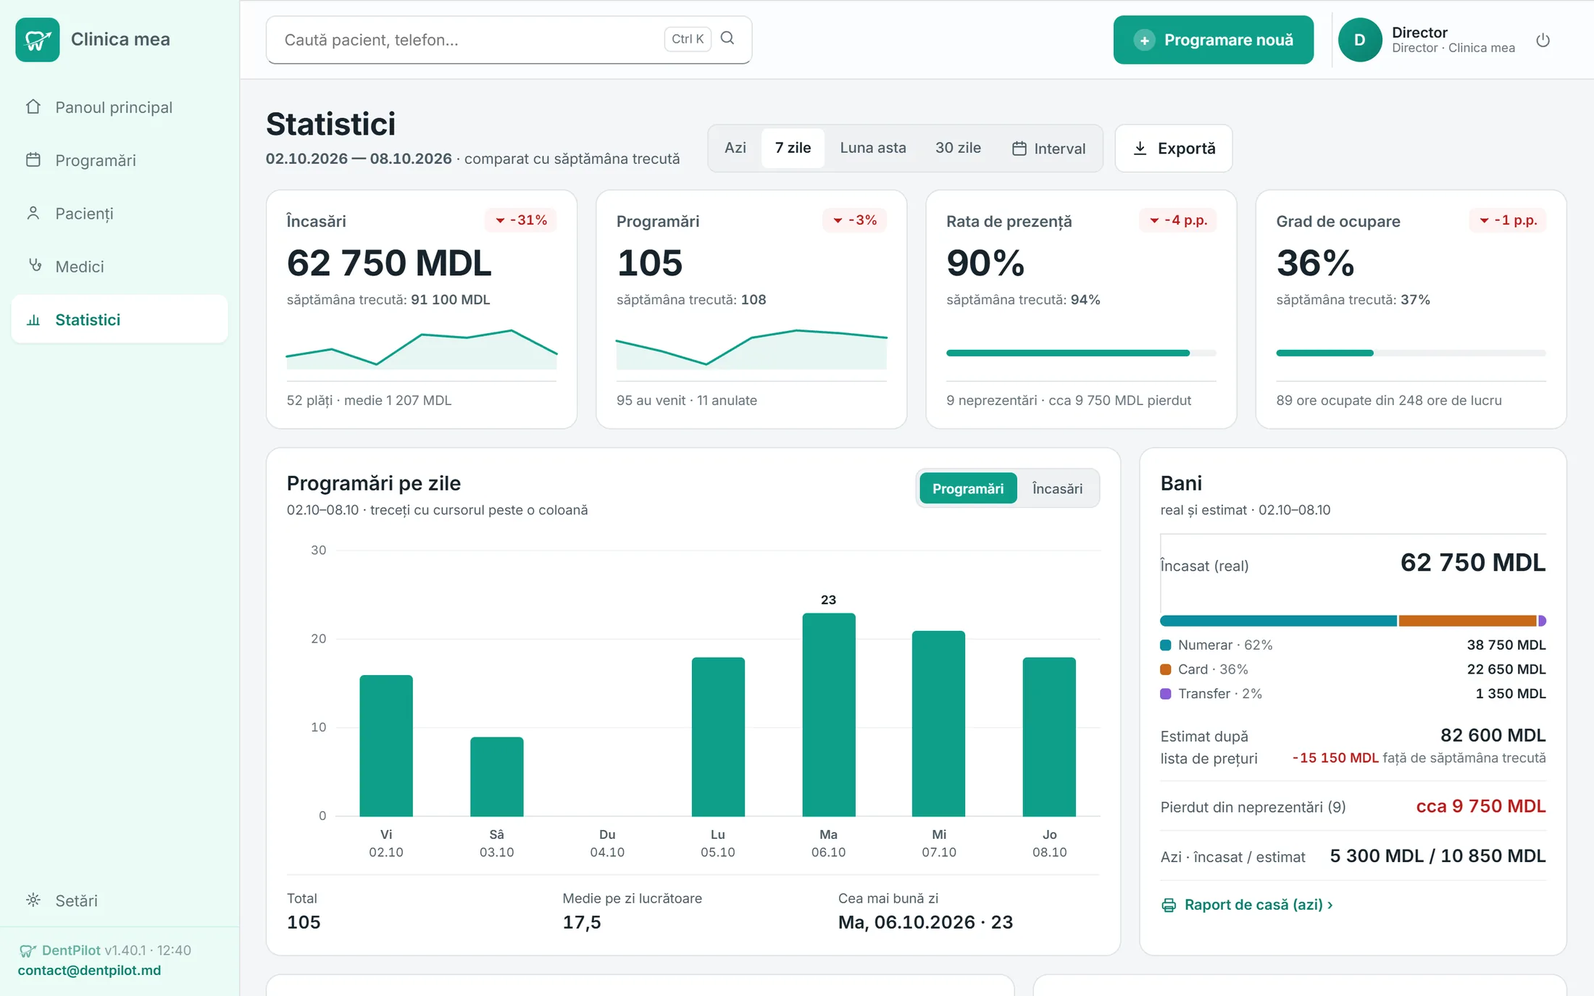
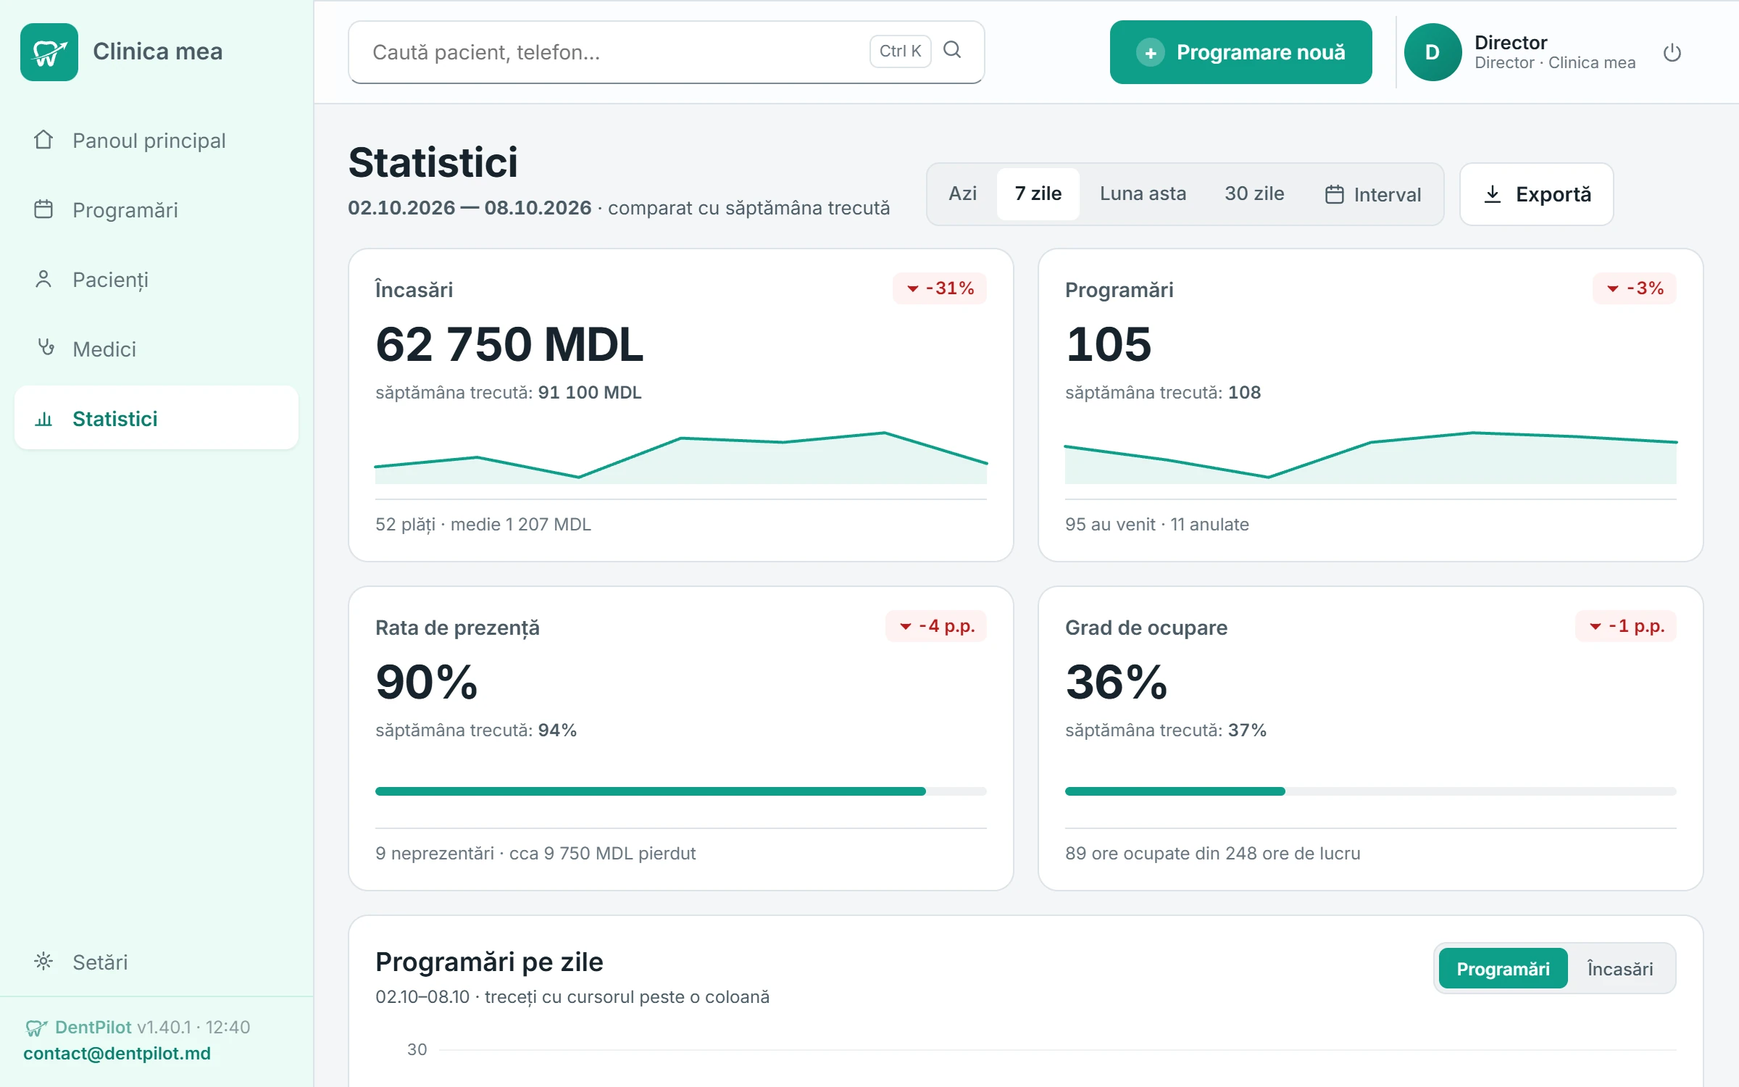
Frames reshot closer to natural size: hero from a 1200x750 window, feature blocks and the demo card from 1100x690, both in 2x WebP q90 without downscaling (Oleg: the screenshots looked blurry)
A 1440-wide screen inside a 1100 px hero frame was shown at 76% and inside a 670 px feature frame at 47%; the UI text fell to 7-10 px and lossy q82 softened it further. The 3D odontogram keeps the wide frame in its block: at 1100 the arch is cut at the bottom.

diff --git a/ru.html b/ru.html
@@ -240,7 +240,7 @@ footer nav a:hover{color:var(--accent)}
     <div class="tabs" role="tablist" aria-label="Экраны DentPilot"><button type="button" role="tab" id="tab-calendar" aria-selected="true" aria-controls="shot-panel" tabindex="0" data-src="shots/app-calendar.webp" data-alt="Календарь дня со всеми врачами в DentPilot" data-cap="Все врачи на одном экране: свободные окна, статусы, новая запись в один клик.">Календарь дня</button><button type="button" role="tab" id="tab-odontograma" aria-selected="false" aria-controls="shot-panel" tabindex="-1" data-src="shots/app-odontograma.webp" data-alt="3D-одонтограмма в DentPilot: имплант на 21, коронки, видны корни" data-cap="Состояния зубов и поверхностей — в 3D и в формуле FDI, синхронно.">3D-одонтограмма</button><button type="button" role="tab" id="tab-fisa" aria-selected="false" aria-controls="shot-panel" tabindex="-1" data-src="shots/app-fisa.webp" data-alt="Карточка пациента в DentPilot: данные, медицинские предупреждения, история" data-cap="История, медицинские предупреждения, документы и план лечения в одном месте.">Карточка пациента</button><button type="button" role="tab" id="tab-statistici" aria-selected="false" aria-controls="shot-panel" tabindex="-1" data-src="shots/app-statistici.webp" data-alt="Статистика клиники в DentPilot: выручка, записи, явка, загрузка" data-cap="Выручка, записи, явка и загрузка — в сравнении с прошлой неделей.">Статистика</button></div>
     <figure class="frame" role="tabpanel" id="shot-panel" aria-labelledby="tab-calendar">
       <div class="frame-bar" aria-hidden="true"><i></i><i></i><i></i><span id="shot-bar">DentPilot · Календарь дня</span></div>
-      <img id="shot" src="shots/app-calendar.webp" alt="Календарь дня со всеми врачами в DentPilot" width="2200" height="1375" fetchpriority="high">
+      <img id="shot" src="shots/app-calendar.webp" alt="Календарь дня со всеми врачами в DentPilot" width="2400" height="1500" fetchpriority="high">
     </figure>
     <p class="cap" id="shot-cap">Все врачи на одном экране: свободные окна, статусы, новая запись в один клик.</p>
   </div>
@@ -250,11 +250,11 @@ footer nav a:hover{color:var(--accent)}
   <div class="wrap">
     <div class="feat">
       <div class="txt"><div class="eyebrow">Карточка пациента</div><h2 class="h2">Всё о пациенте — в одной карточке</h2><p class="lead">Зубная формула FDI в один клик, план лечения, платежи и история визитов.</p><ul class="ul"><li><svg width="18" height="18" viewBox="0 0 24 24" fill="none" stroke="currentColor" stroke-width="2.4" stroke-linecap="round" stroke-linejoin="round" aria-hidden="true"><path d="M5 12.5l4.5 4.5L19 7.5"/></svg>План лечения с ценами, статусами, платежами и балансом</li><li><svg width="18" height="18" viewBox="0 0 24 24" fill="none" stroke="currentColor" stroke-width="2.4" stroke-linecap="round" stroke-linejoin="round" aria-hidden="true"><path d="M5 12.5l4.5 4.5L19 7.5"/></svg>Информированное согласие (ст. 13, Закон 263/2005) печатается прямо из плана</li><li><svg width="18" height="18" viewBox="0 0 24 24" fill="none" stroke="currentColor" stroke-width="2.4" stroke-linecap="round" stroke-linejoin="round" aria-hidden="true"><path d="M5 12.5l4.5 4.5L19 7.5"/></svg>Пародонтограмма: 6 точек на зуб, BOP% и карманы считаются автоматически, осмотр за осмотром</li></ul></div>
-      <div class="img"><figure class="frame" style="margin:0"><img src="shots/app-fisa.webp" alt="Карточка пациента в DentPilot: данные, медицинские предупреждения, история действий" width="2200" height="1375" loading="lazy"></figure></div>
+      <div class="img"><figure class="frame" style="margin:0"><img src="shots/app-fisa-s.webp" alt="Карточка пациента в DentPilot: данные, медицинские предупреждения, история действий" width="2200" height="1380" loading="lazy"></figure></div>
     </div>
     <div class="feat rev">
       <div class="txt"><div class="eyebrow">3D-одонтограмма</div><h2 class="h2">Зубы такими, какими их видит врач</h2><p class="lead">Та же одонтограмма, в объёме — зуб выбирается кликом или пальцем на планшете.</p><ul class="ul"><li><svg width="18" height="18" viewBox="0 0 24 24" fill="none" stroke="currentColor" stroke-width="2.4" stroke-linecap="round" stroke-linejoin="round" aria-hidden="true"><path d="M5 12.5l4.5 4.5L19 7.5"/></svg>Вид спереди, сбоку или окклюзионный, вращение и корни по запросу</li><li><svg width="18" height="18" viewBox="0 0 24 24" fill="none" stroke="currentColor" stroke-width="2.4" stroke-linecap="round" stroke-linejoin="round" aria-hidden="true"><path d="M5 12.5l4.5 4.5L19 7.5"/></svg>Импланты и коронки видны как есть, состояния — по поверхностям</li><li><svg width="18" height="18" viewBox="0 0 24 24" fill="none" stroke="currentColor" stroke-width="2.4" stroke-linecap="round" stroke-linejoin="round" aria-hidden="true"><path d="M5 12.5l4.5 4.5L19 7.5"/></svg>Отмеченное в 3D появляется в формуле FDI, в плане и в форме 043/e</li></ul></div>
-      <div class="img"><figure class="frame" style="margin:0"><img src="shots/app-odontograma.webp" alt="3D-одонтограмма в DentPilot, выбран зуб 21: имплант, коронки на 11 и 12" width="2200" height="1375" loading="lazy"></figure></div>
+      <div class="img"><figure class="frame" style="margin:0"><img src="shots/app-odontograma.webp" alt="3D-одонтограмма в DentPilot, выбран зуб 21: имплант, коронки на 11 и 12" width="2400" height="1500" loading="lazy"></figure></div>
     </div>
     <div class="feat">
       <div class="txt"><div class="eyebrow">Медицинские документы</div><h2 class="h2">Форма 043/e заполняется сама</h2><p class="lead">Из уже введённых данных — без ручного переписывания (приказ МЗ 828/2011).</p><ul class="ul"><li><svg width="18" height="18" viewBox="0 0 24 24" fill="none" stroke="currentColor" stroke-width="2.4" stroke-linecap="round" stroke-linejoin="round" aria-hidden="true"><path d="M5 12.5l4.5 4.5L19 7.5"/></svg>Диагноз, зубная формула и журнал визитов</li><li><svg width="18" height="18" viewBox="0 0 24 24" fill="none" stroke="currentColor" stroke-width="2.4" stroke-linecap="round" stroke-linejoin="round" aria-hidden="true"><path d="M5 12.5l4.5 4.5L19 7.5"/></svg>Информированное согласие на план лечения</li><li><svg width="18" height="18" viewBox="0 0 24 24" fill="none" stroke="currentColor" stroke-width="2.4" stroke-linecap="round" stroke-linejoin="round" aria-hidden="true"><path d="M5 12.5l4.5 4.5L19 7.5"/></svg>Информирование пациента об обработке данных — готово к подписи</li></ul></div>
@@ -262,7 +262,7 @@ footer nav a:hover{color:var(--accent)}
     </div>
     <div class="feat rev">
       <div class="txt"><div class="eyebrow">Для директора</div><h2 class="h2">Цифры клиники на сегодня</h2><p class="lead">Четыре показателя в сравнении с прошлым периодом: выручка, записи, явка и загрузка.</p><ul class="ul"><li><svg width="18" height="18" viewBox="0 0 24 24" fill="none" stroke="currentColor" stroke-width="2.4" stroke-linecap="round" stroke-linejoin="round" aria-hidden="true"><path d="M5 12.5l4.5 4.5L19 7.5"/></svg>Реальные деньги по способам оплаты и потери от неявок</li><li><svg width="18" height="18" viewBox="0 0 24 24" fill="none" stroke="currentColor" stroke-width="2.4" stroke-linecap="round" stroke-linejoin="round" aria-hidden="true"><path d="M5 12.5l4.5 4.5L19 7.5"/></svg>Результаты каждого врача и самые востребованные услуги</li><li><svg width="18" height="18" viewBox="0 0 24 24" fill="none" stroke="currentColor" stroke-width="2.4" stroke-linecap="round" stroke-linejoin="round" aria-hidden="true"><path d="M5 12.5l4.5 4.5L19 7.5"/></svg>Ежедневный отчёт кассы и экспорт в Excel в один клик</li></ul></div>
-      <div class="img"><figure class="frame" style="margin:0"><img src="shots/app-statistici.webp" alt="Статистика клиники в DentPilot: выручка, записи, явка, загрузка" width="2200" height="1375" loading="lazy"></figure></div>
+      <div class="img"><figure class="frame" style="margin:0"><img src="shots/app-statistici-s.webp" alt="Статистика клиники в DentPilot: выручка, записи, явка, загрузка" width="2200" height="1380" loading="lazy"></figure></div>
     </div></div>
 </section>
 
@@ -317,7 +317,7 @@ footer nav a:hover{color:var(--accent)}
         <div class="row"><a class="btn inv" href="https://demo.dentpilot.md/" target="_blank" rel="noopener">Открыть демо онлайн</a><a class="btn ghost-inv" href="#contact">Заказать презентацию</a></div>
         <p class="note">Без установки · без регистрации · вымышленные данные · лучше всего на компьютере</p>
       </div>
-      <div class="img"><figure class="frame"><div class="frame-bar" aria-hidden="true"><i></i><i></i><i></i><span>DentPilot · Календарь дня</span></div><img src="shots/app-calendar.webp" alt="Календарь дня в DentPilot" width="2200" height="1375" loading="lazy"></figure></div>
+      <div class="img"><figure class="frame"><div class="frame-bar" aria-hidden="true"><i></i><i></i><i></i><span>DentPilot · Календарь дня</span></div><img src="shots/app-calendar-s.webp" alt="Календарь дня в DentPilot" width="2200" height="1380" loading="lazy"></figure></div>
     </div>
   </div>
 </section>

diff --git a/index.html b/index.html
@@ -240,7 +240,7 @@ footer nav a:hover{color:var(--accent)}
     <div class="tabs" role="tablist" aria-label="Ecrane DentPilot"><button type="button" role="tab" id="tab-calendar" aria-selected="true" aria-controls="shot-panel" tabindex="0" data-src="shots/app-calendar.webp" data-alt="Calendarul zilei cu toți medicii în DentPilot" data-cap="Toți medicii pe un ecran: intervale libere, statusuri, programare nouă dintr-un click.">Calendarul zilei</button><button type="button" role="tab" id="tab-odontograma" aria-selected="false" aria-controls="shot-panel" tabindex="-1" data-src="shots/app-odontograma.webp" data-alt="Odontograma 3D în DentPilot: implant pe 21, coroane, rădăcini vizibile" data-cap="Stările pe dinți și suprafețe — în 3D și în formula FDI, sincronizate.">Odontogramă 3D</button><button type="button" role="tab" id="tab-fisa" aria-selected="false" aria-controls="shot-panel" tabindex="-1" data-src="shots/app-fisa.webp" data-alt="Fișa pacientului în DentPilot: date, atenționări medicale, istoric" data-cap="Istoric, atenționări medicale, documente și plan de tratament într-un loc.">Fișa pacientului</button><button type="button" role="tab" id="tab-statistici" aria-selected="false" aria-controls="shot-panel" tabindex="-1" data-src="shots/app-statistici.webp" data-alt="Statisticile clinicii în DentPilot: încasări, programări, prezență, ocupare" data-cap="Încasări, programări, prezență și ocupare — comparate cu săptămâna trecută.">Statistici</button></div>
     <figure class="frame" role="tabpanel" id="shot-panel" aria-labelledby="tab-calendar">
       <div class="frame-bar" aria-hidden="true"><i></i><i></i><i></i><span id="shot-bar">DentPilot · Calendarul zilei</span></div>
-      <img id="shot" src="shots/app-calendar.webp" alt="Calendarul zilei cu toți medicii în DentPilot" width="2200" height="1375" fetchpriority="high">
+      <img id="shot" src="shots/app-calendar.webp" alt="Calendarul zilei cu toți medicii în DentPilot" width="2400" height="1500" fetchpriority="high">
     </figure>
     <p class="cap" id="shot-cap">Toți medicii pe un ecran: intervale libere, statusuri, programare nouă dintr-un click.</p>
   </div>
@@ -250,11 +250,11 @@ footer nav a:hover{color:var(--accent)}
   <div class="wrap">
     <div class="feat">
       <div class="txt"><div class="eyebrow">Fișa pacientului</div><h2 class="h2">Totul despre pacient, într-o singură fișă</h2><p class="lead">Formula dentară FDI cu un click, plan de tratament, plăți și istoricul vizitelor.</p><ul class="ul"><li><svg width="18" height="18" viewBox="0 0 24 24" fill="none" stroke="currentColor" stroke-width="2.4" stroke-linecap="round" stroke-linejoin="round" aria-hidden="true"><path d="M5 12.5l4.5 4.5L19 7.5"/></svg>Plan de tratament cu prețuri, statusuri, plăți și sold</li><li><svg width="18" height="18" viewBox="0 0 24 24" fill="none" stroke="currentColor" stroke-width="2.4" stroke-linecap="round" stroke-linejoin="round" aria-hidden="true"><path d="M5 12.5l4.5 4.5L19 7.5"/></svg>Acordul informat (art. 13, Legea 263/2005) se tipărește direct din plan</li><li><svg width="18" height="18" viewBox="0 0 24 24" fill="none" stroke="currentColor" stroke-width="2.4" stroke-linecap="round" stroke-linejoin="round" aria-hidden="true"><path d="M5 12.5l4.5 4.5L19 7.5"/></svg>Parodontogramă: 6 puncte pe dinte, BOP% și pungile numărate automat, examen după examen</li></ul></div>
-      <div class="img"><figure class="frame" style="margin:0"><img src="shots/app-fisa.webp" alt="Fișa pacientului în DentPilot: date, atenționări medicale, istoric activitate" width="2200" height="1375" loading="lazy"></figure></div>
+      <div class="img"><figure class="frame" style="margin:0"><img src="shots/app-fisa-s.webp" alt="Fișa pacientului în DentPilot: date, atenționări medicale, istoric activitate" width="2200" height="1380" loading="lazy"></figure></div>
     </div>
     <div class="feat rev">
       <div class="txt"><div class="eyebrow">Odontogramă 3D</div><h2 class="h2">Dinții așa cum îi vede medicul</h2><p class="lead">Aceeași odontogramă, în volum — dintele se alege cu un click sau cu degetul pe tabletă.</p><ul class="ul"><li><svg width="18" height="18" viewBox="0 0 24 24" fill="none" stroke="currentColor" stroke-width="2.4" stroke-linecap="round" stroke-linejoin="round" aria-hidden="true"><path d="M5 12.5l4.5 4.5L19 7.5"/></svg>Vedere frontală, laterală sau ocluzală, rotire și rădăcini la cerere</li><li><svg width="18" height="18" viewBox="0 0 24 24" fill="none" stroke="currentColor" stroke-width="2.4" stroke-linecap="round" stroke-linejoin="round" aria-hidden="true"><path d="M5 12.5l4.5 4.5L19 7.5"/></svg>Implanturile și coroanele se văd ca atare, stările — pe suprafețe</li><li><svg width="18" height="18" viewBox="0 0 24 24" fill="none" stroke="currentColor" stroke-width="2.4" stroke-linecap="round" stroke-linejoin="round" aria-hidden="true"><path d="M5 12.5l4.5 4.5L19 7.5"/></svg>Ce notați în 3D apare în formula FDI, în plan și în fișa 043/e</li></ul></div>
-      <div class="img"><figure class="frame" style="margin:0"><img src="shots/app-odontograma.webp" alt="Odontograma 3D în DentPilot, dintele 21 selectat: implant, coroane pe 11 și 12" width="2200" height="1375" loading="lazy"></figure></div>
+      <div class="img"><figure class="frame" style="margin:0"><img src="shots/app-odontograma.webp" alt="Odontograma 3D în DentPilot, dintele 21 selectat: implant, coroane pe 11 și 12" width="2400" height="1500" loading="lazy"></figure></div>
     </div>
     <div class="feat">
       <div class="txt"><div class="eyebrow">Documente medicale</div><h2 class="h2">Fișa 043/e se completează singură</h2><p class="lead">Din datele deja introduse — fără copiat manual (Ordinul MS 828/2011).</p><ul class="ul"><li><svg width="18" height="18" viewBox="0 0 24 24" fill="none" stroke="currentColor" stroke-width="2.4" stroke-linecap="round" stroke-linejoin="round" aria-hidden="true"><path d="M5 12.5l4.5 4.5L19 7.5"/></svg>Diagnostic, formula dentară și jurnalul vizitelor</li><li><svg width="18" height="18" viewBox="0 0 24 24" fill="none" stroke="currentColor" stroke-width="2.4" stroke-linecap="round" stroke-linejoin="round" aria-hidden="true"><path d="M5 12.5l4.5 4.5L19 7.5"/></svg>Acordul informat pentru planul de tratament</li><li><svg width="18" height="18" viewBox="0 0 24 24" fill="none" stroke="currentColor" stroke-width="2.4" stroke-linecap="round" stroke-linejoin="round" aria-hidden="true"><path d="M5 12.5l4.5 4.5L19 7.5"/></svg>Informarea pacientului privind prelucrarea datelor — gata de semnat</li></ul></div>
@@ -262,7 +262,7 @@ footer nav a:hover{color:var(--accent)}
     </div>
     <div class="feat rev">
       <div class="txt"><div class="eyebrow">Pentru director</div><h2 class="h2">Cifrele clinicii, la zi</h2><p class="lead">Patru indicatori comparați cu perioada precedentă: încasări, programări, prezență și grad de ocupare.</p><ul class="ul"><li><svg width="18" height="18" viewBox="0 0 24 24" fill="none" stroke="currentColor" stroke-width="2.4" stroke-linecap="round" stroke-linejoin="round" aria-hidden="true"><path d="M5 12.5l4.5 4.5L19 7.5"/></svg>Banii reali pe metode de plată și pierderile din neprezentări</li><li><svg width="18" height="18" viewBox="0 0 24 24" fill="none" stroke="currentColor" stroke-width="2.4" stroke-linecap="round" stroke-linejoin="round" aria-hidden="true"><path d="M5 12.5l4.5 4.5L19 7.5"/></svg>Performanța fiecărui medic și serviciile cele mai cerute</li><li><svg width="18" height="18" viewBox="0 0 24 24" fill="none" stroke="currentColor" stroke-width="2.4" stroke-linecap="round" stroke-linejoin="round" aria-hidden="true"><path d="M5 12.5l4.5 4.5L19 7.5"/></svg>Raport de casă zilnic și export în Excel dintr-un click</li></ul></div>
-      <div class="img"><figure class="frame" style="margin:0"><img src="shots/app-statistici.webp" alt="Statisticile clinicii în DentPilot: încasări, programări, prezență, ocupare" width="2200" height="1375" loading="lazy"></figure></div>
+      <div class="img"><figure class="frame" style="margin:0"><img src="shots/app-statistici-s.webp" alt="Statisticile clinicii în DentPilot: încasări, programări, prezență, ocupare" width="2200" height="1380" loading="lazy"></figure></div>
     </div></div>
 </section>
 
@@ -317,7 +317,7 @@ footer nav a:hover{color:var(--accent)}
         <div class="row"><a class="btn inv" href="https://demo.dentpilot.md/" target="_blank" rel="noopener">Deschide demo-ul online</a><a class="btn ghost-inv" href="#contact">Solicită o prezentare</a></div>
         <p class="note">Fără instalare · fără înregistrare · date fictive · cel mai bine pe computer</p>
       </div>
-      <div class="img"><figure class="frame"><div class="frame-bar" aria-hidden="true"><i></i><i></i><i></i><span>DentPilot · Calendarul zilei</span></div><img src="shots/app-calendar.webp" alt="Calendarul zilei în DentPilot" width="2200" height="1375" loading="lazy"></figure></div>
+      <div class="img"><figure class="frame"><div class="frame-bar" aria-hidden="true"><i></i><i></i><i></i><span>DentPilot · Calendarul zilei</span></div><img src="shots/app-calendar-s.webp" alt="Calendarul zilei în DentPilot" width="2200" height="1380" loading="lazy"></figure></div>
     </div>
   </div>
 </section>
